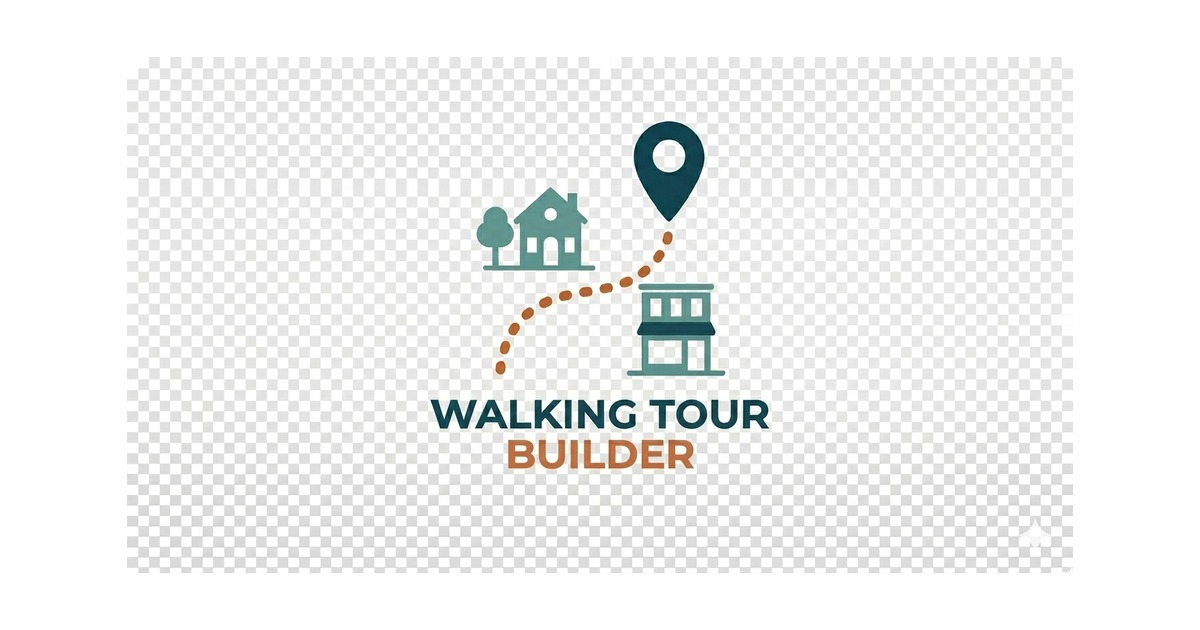
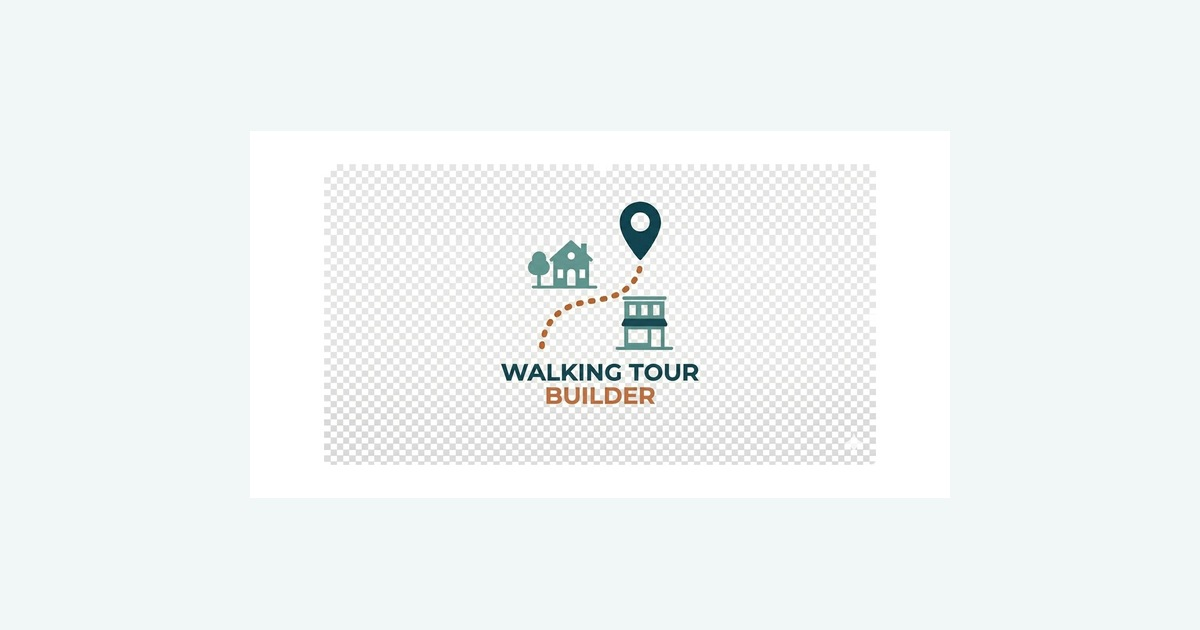
OG image: light teal background; shorten OG title to <60 chars

Changed region(s): [[0.0925, 0.181, 0.8942, 0.9048]]

diff --git a/src/app/(marketing)/product/page.tsx b/src/app/(marketing)/product/page.tsx
@@ -50,7 +50,7 @@ export const metadata: Metadata = {
     canonical: 'https://walkingtourbuilder.com',
   },
   openGraph: {
-    title: 'Walking Tour Builder — Create GPS Walking Tour Apps for Your Community',
+    title: 'Walking Tour Builder — GPS Tour Apps for Communities',
     description:
       'Build branded, GPS-guided walking tour apps in minutes. Stamp cards, AI audio narration, offline support. Start your free trial — no credit card required.',
     type: 'website',